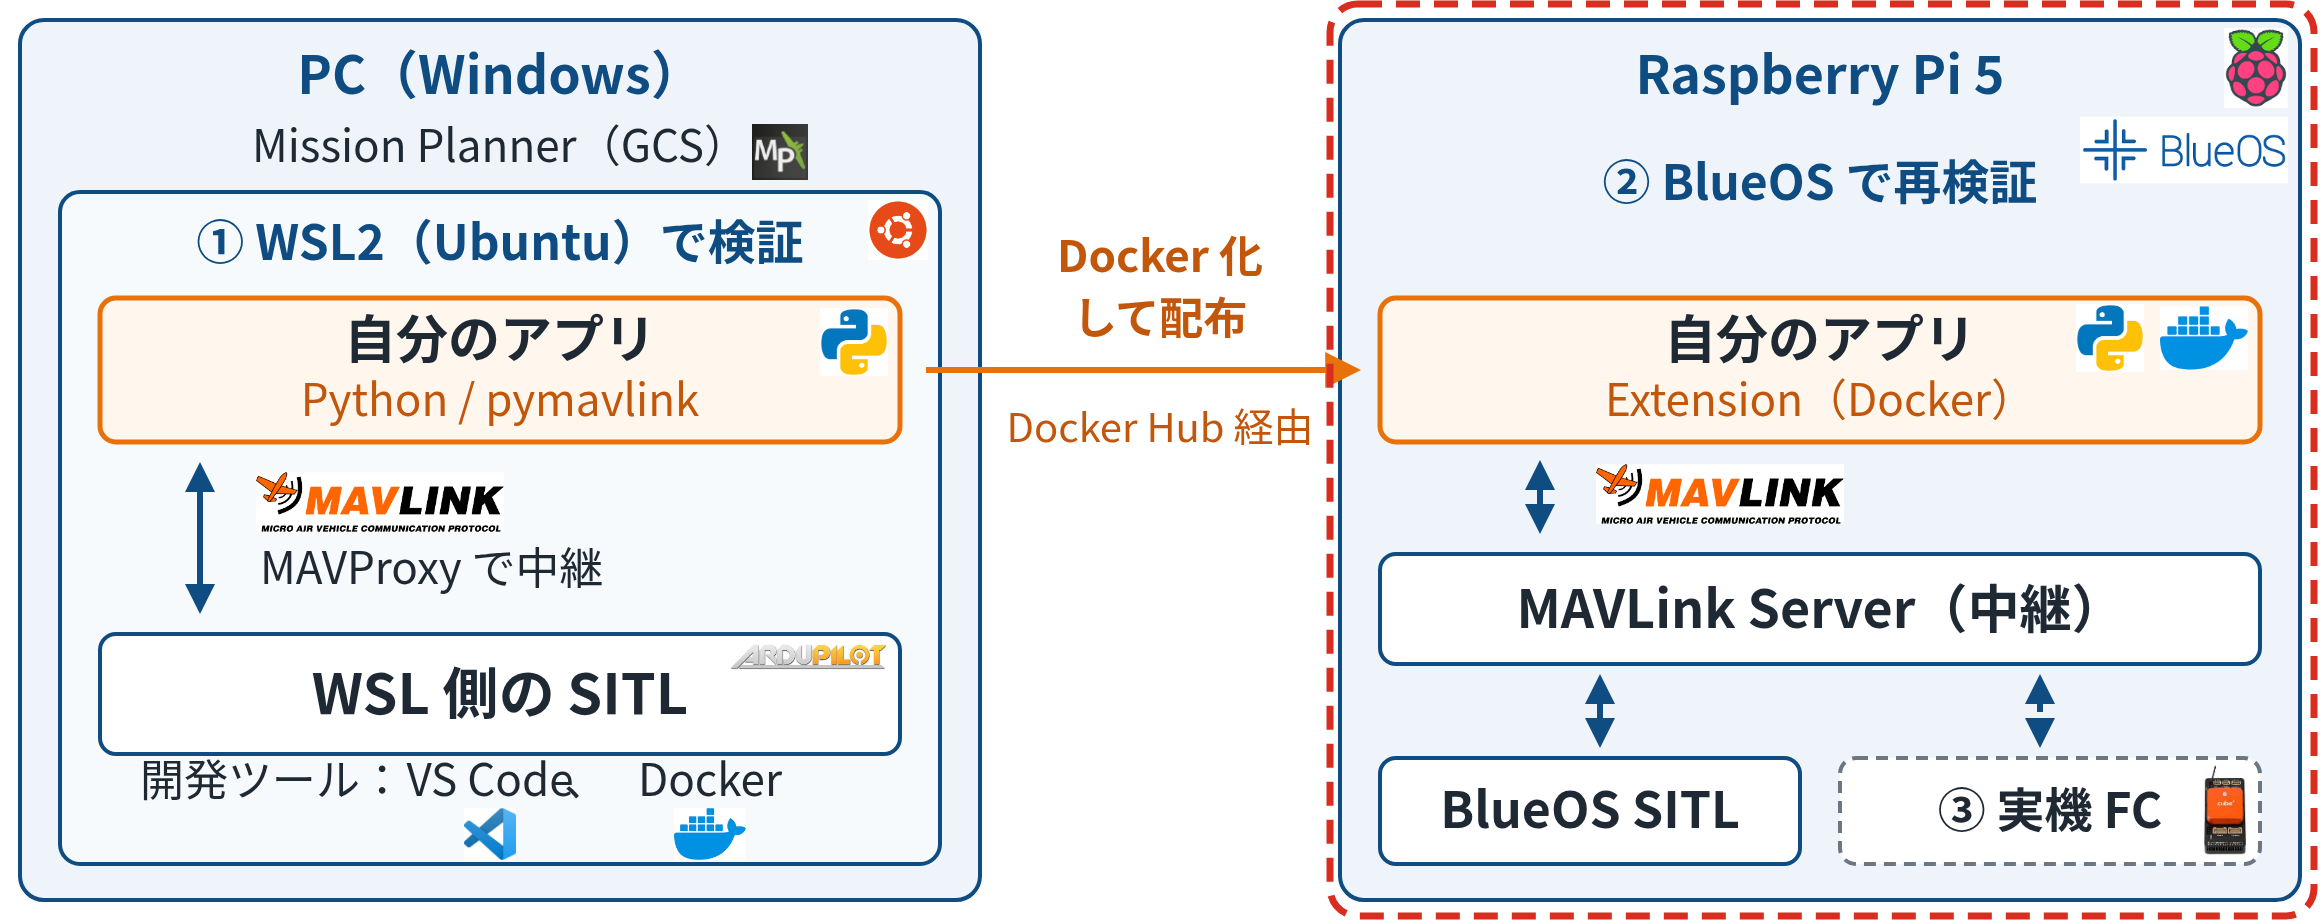
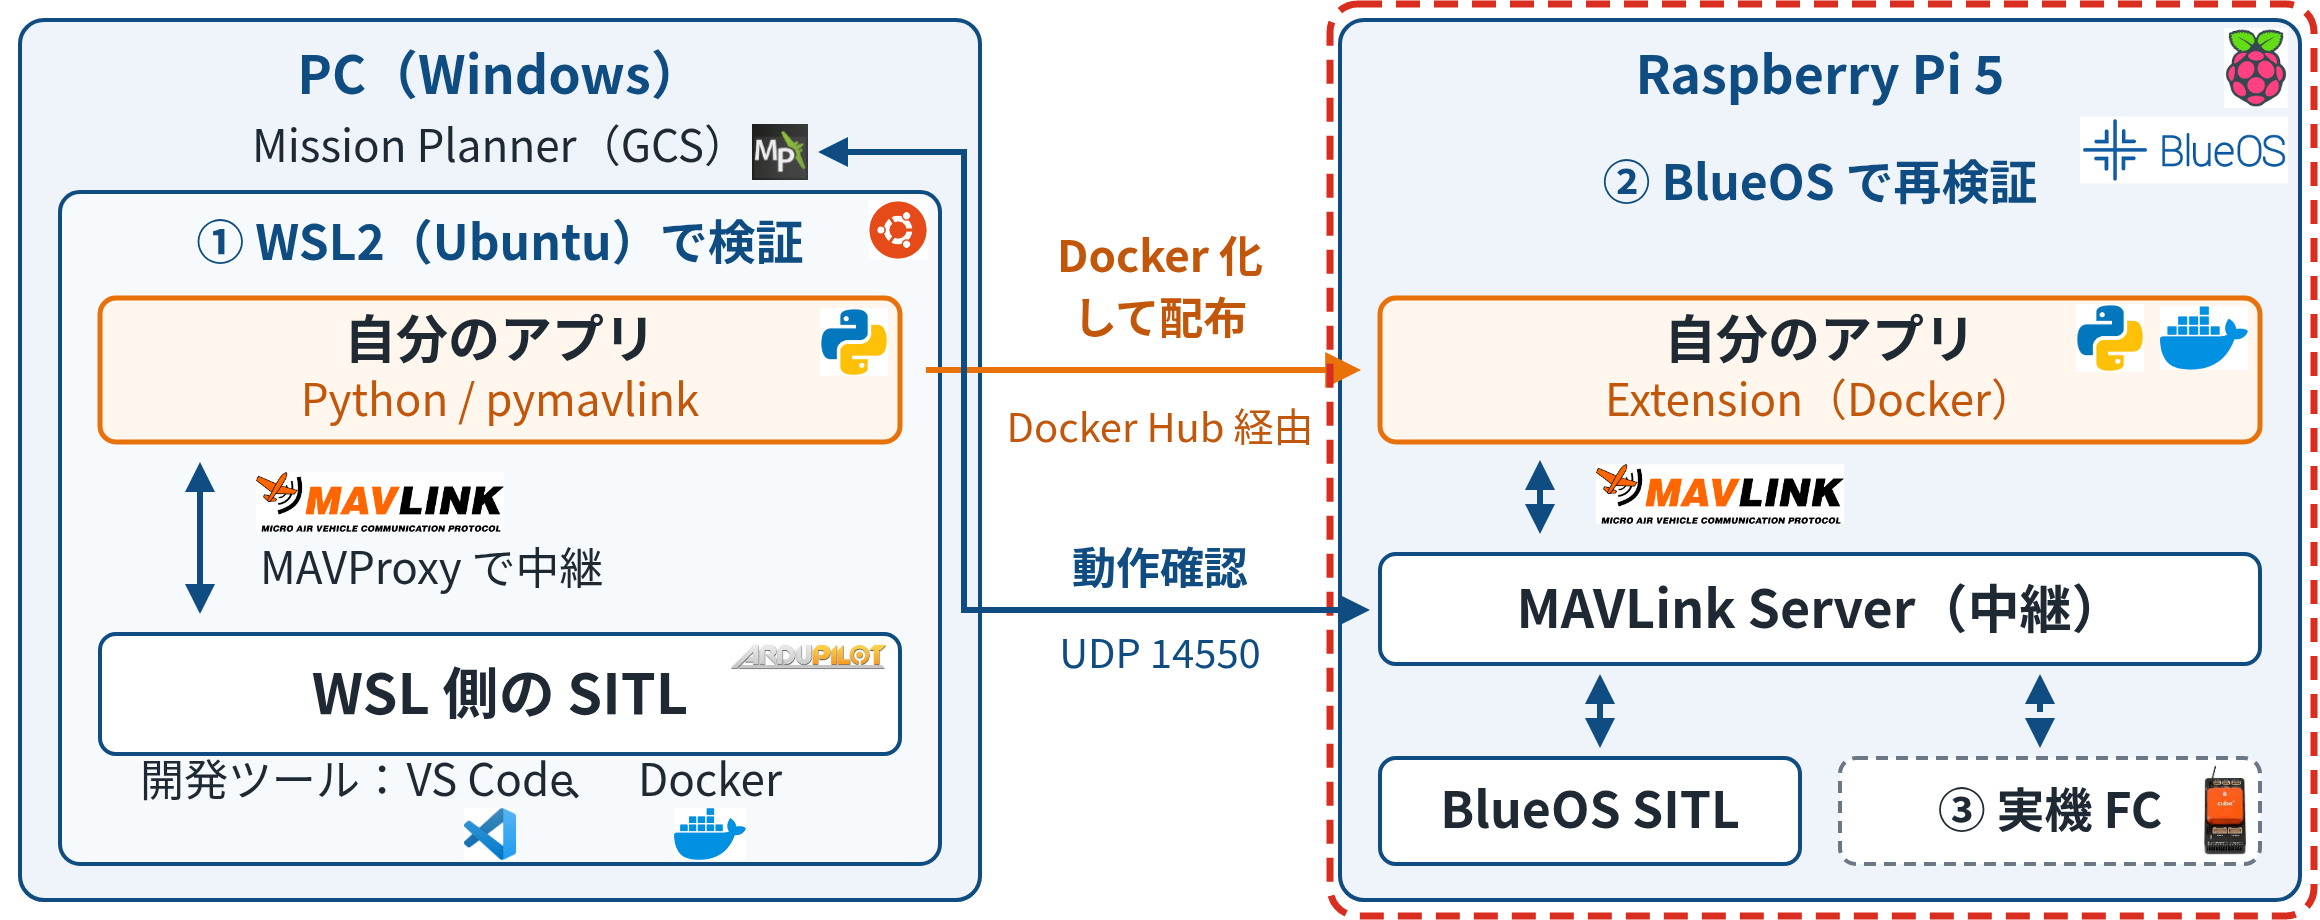
doc: blueos-dev-env-setup-guide 1章の構成図に動作確認の経路を追加、変更履歴を追加（Ver.1.1.0）
- 1章の構成図: Mission PlannerからMAVLink Serverへの動作確認（UDP 14550）の線を追記
- 変更履歴の表と履歴コメントを Ver.1.1.0 に記載（版数は据え置き）

Changed region(s): [[0.4034, 0.5783, 0.5897, 0.6696], [0.4655, 0.7, 0.5586, 0.7304], [0.3414, 0.1522, 0.4345, 0.1826]]

diff --git a/doc/drone-dev-env-setup-guide/blueos-dev-env-setup-guide.md b/doc/drone-dev-env-setup-guide/blueos-dev-env-setup-guide.md
@@ -2,12 +2,12 @@
 <h3>ドローンエンジニア養成塾 デベロッパーコース</h3>
 <h2>コンパニオンコンピュータ（BlueOS）環境構築手順書</h2><br>
 (Raspberry Pi 5 + BlueOS)<br/>
-Ver.1.1.0 - 2026.11.13
+Ver.1.1.0 - 2026.11.17
 </div>
 
 <!--
 Ver.1.0.0 - 2026.6.12 - 初版
-Ver.1.1.0 - 2026.11.13 - 機体をWSL上のSITLからBlueOS内蔵SITLに変更（第3章差し替え、BlueOSバージョンを1.5.0-beta.43に変更）、Windows 11 前提に変更
+Ver.1.1.0 - 2026.11.17 - 機体をBlueOS内蔵SITLに変更（3章再編、BlueOS 1.5.0-beta.43に変更）、Windows 11 前提に変更、構成図の差し替え、SSHホスト鍵エラーの対処を追加
 -->
 
 Table of Contents
@@ -48,6 +48,14 @@ Table of Contents
   - [4.3. （参考）CockpitからのGCS接続確認（任意）](#43-参考cockpitからのgcs接続確認任意)
 
 <!-- /code_chunk_output -->
+
+<div style="page-break-before:always"></div>
+
+## 変更履歴
+
+| 日付 | バージョン | 変更箇所・理由 |
+|------|-----------|--------------|
+| 2026.11.17 | 1.1.0 | 機体をBlueOS内蔵SITLに変更（3章再編、BlueOSバージョンを1.5.0-beta.43に変更）、Windows 11 前提に変更<br>1章：構成図を差し替え<br>2.3.3節：SSHホスト鍵エラーの対処を追加 |
 
 <div style="page-break-before:always"></div>
 
